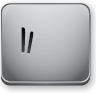
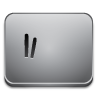
Improved buttons (again)

Changed region(s): [[0.0, 0.0215, 1.0, 0.9677], [0.2188, 0.2796, 0.4062, 0.6237]]

diff --git a/src/view/Minigames/Elevator/Button.js b/src/view/Minigames/Elevator/Button.js
@@ -102,7 +102,7 @@ MW.Button = MW.GlobalObject.extend(
 		});
 
 		graphics.on('mousedown', function () {
-			MW.SetImage(graphics, imageDown, 0, graphics.getY() + 5);
+			MW.SetImage(graphics, imageDown, 0, graphics.getY());
 			config.drawScene();
 		});
 
